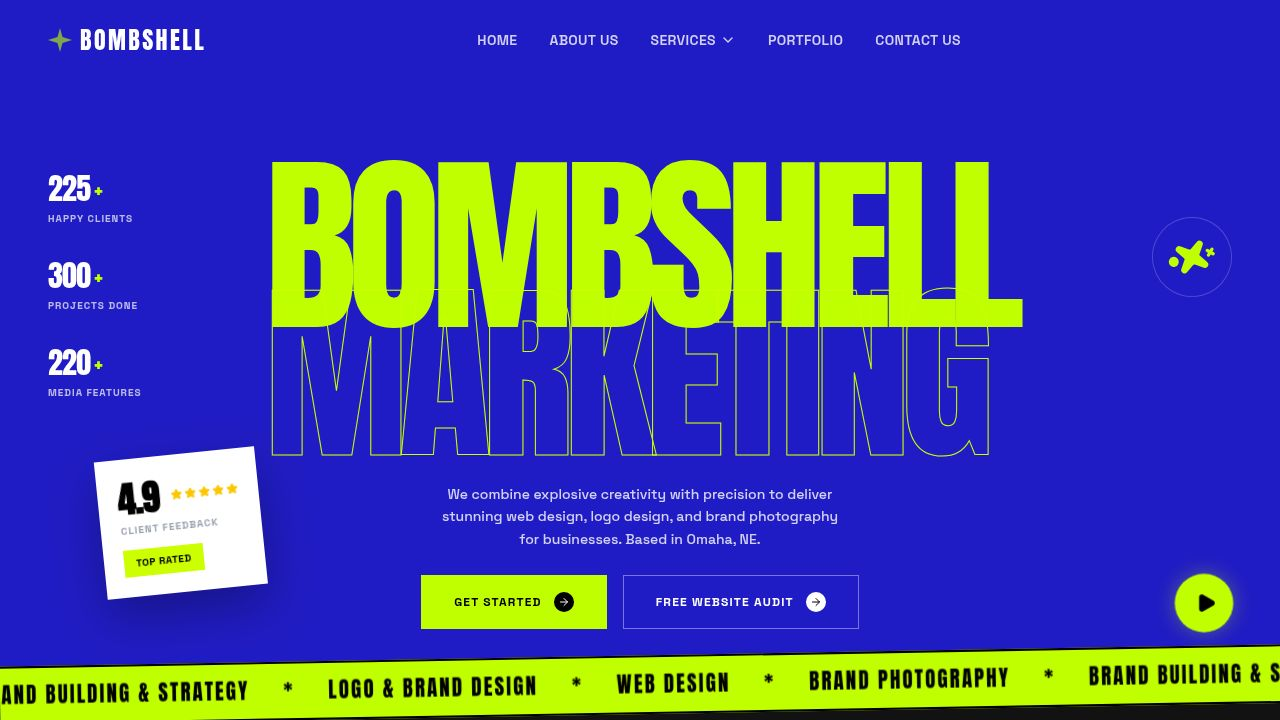
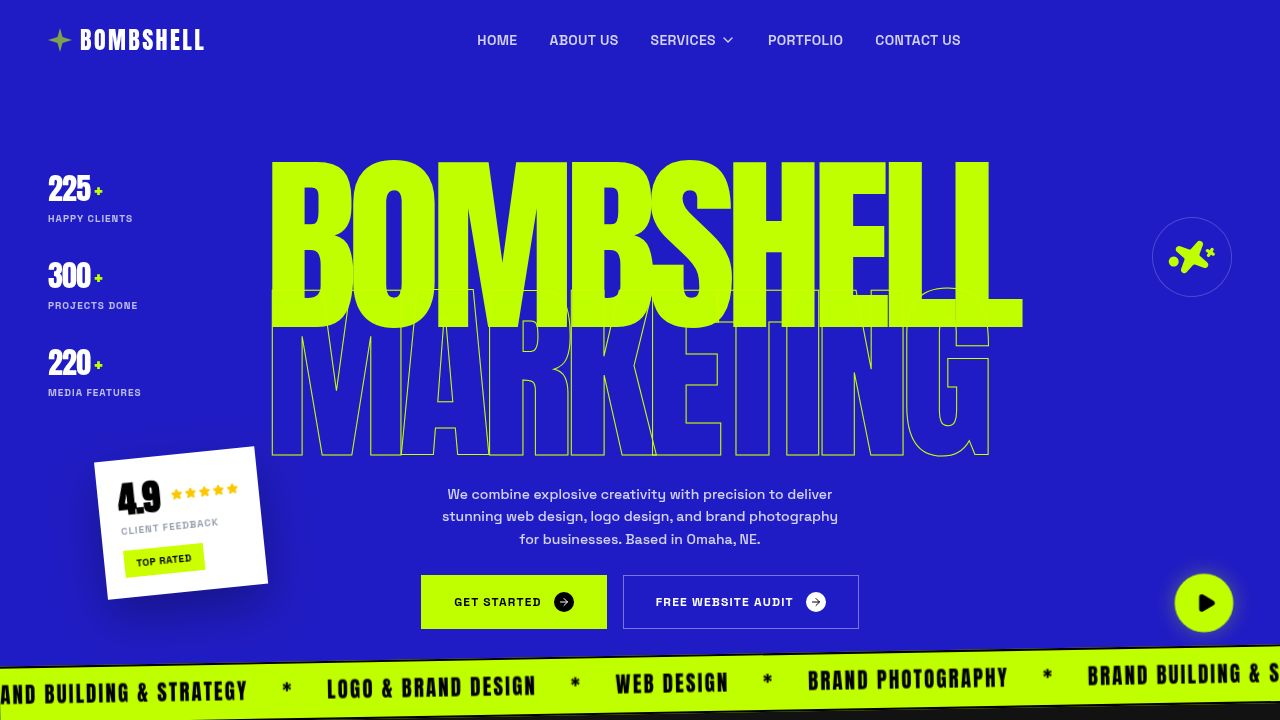
Make the 4.9 rating box visible and adjust its size on mobile devices
Update Hero.tsx to make the rating box visible on mobile, adjusting its positioning and scale.

Replit-Commit-Author: Agent
Replit-Commit-Session-Id: b97b545a-2953-4744-8807-01dbd9bc97d5
Replit-Commit-Checkpoint-Type: full_checkpoint
Replit-Commit-Event-Id: 6dd118cc-929c-4ae5-a1fd-2762fb070990
Replit-Commit-Screenshot-Url: https://storage.googleapis.com/screenshot-production-us-central1/cacd662f-1fbf-427a-8dde-dff8a0747f32/b97b545a-2953-4744-8807-01dbd9bc97d5/kIuGC7x
Replit-Helium-Checkpoint-Created: true

diff --git a/client/src/components/Hero.tsx b/client/src/components/Hero.tsx
@@ -41,7 +41,7 @@ export function Hero() {
           initial={{ x: -100, opacity: 0, rotate: -10 }}
           animate={{ x: 0, opacity: 1, rotate: -6 }}
           transition={{ duration: 0.8, delay: 0.5, type: "spring" }}
-          className="absolute left-6 md:left-24 bottom-48 md:bottom-32 z-40 bg-white p-5 rounded-lg shadow-[0_20px_50px_rgba(0,0,0,0.3)] max-w-[200px] hidden md:block"
+          className="absolute left-4 md:left-24 bottom-56 md:bottom-32 z-40 bg-white p-4 md:p-5 rounded-lg shadow-[0_20px_50px_rgba(0,0,0,0.3)] max-w-[160px] md:max-w-[200px] scale-90 md:scale-100"
         >
           <div className="flex items-center gap-3 mb-1">
             <span className="text-4xl font-display text-black font-bold tracking-tight">4.9</span>
